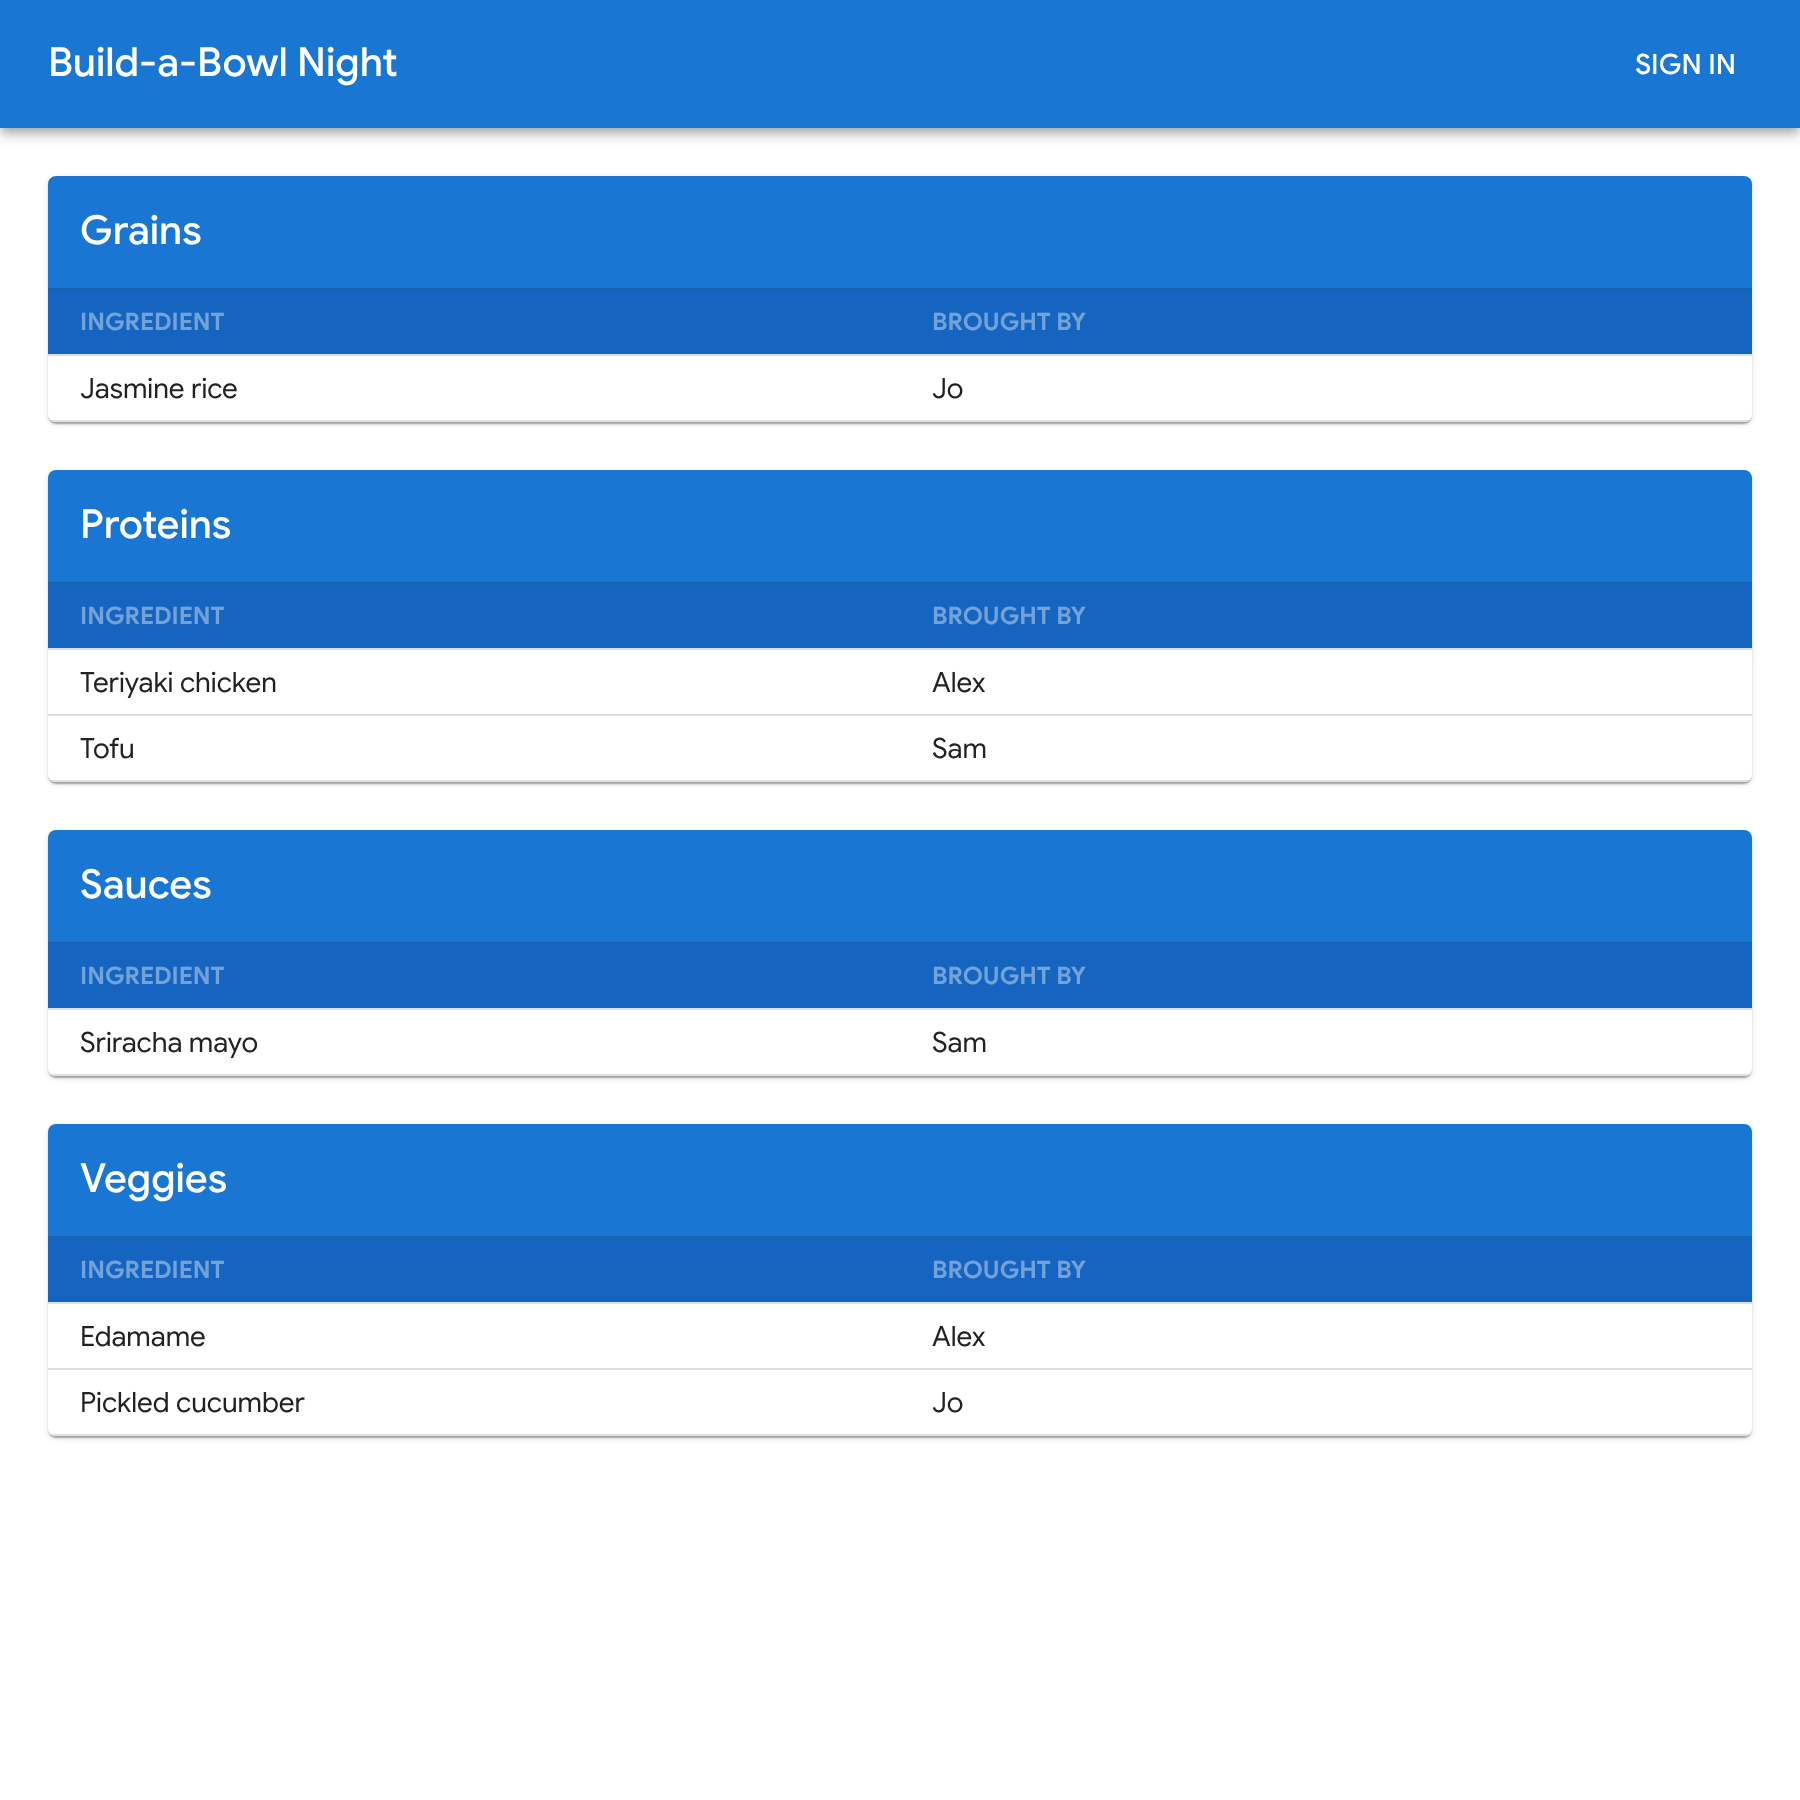
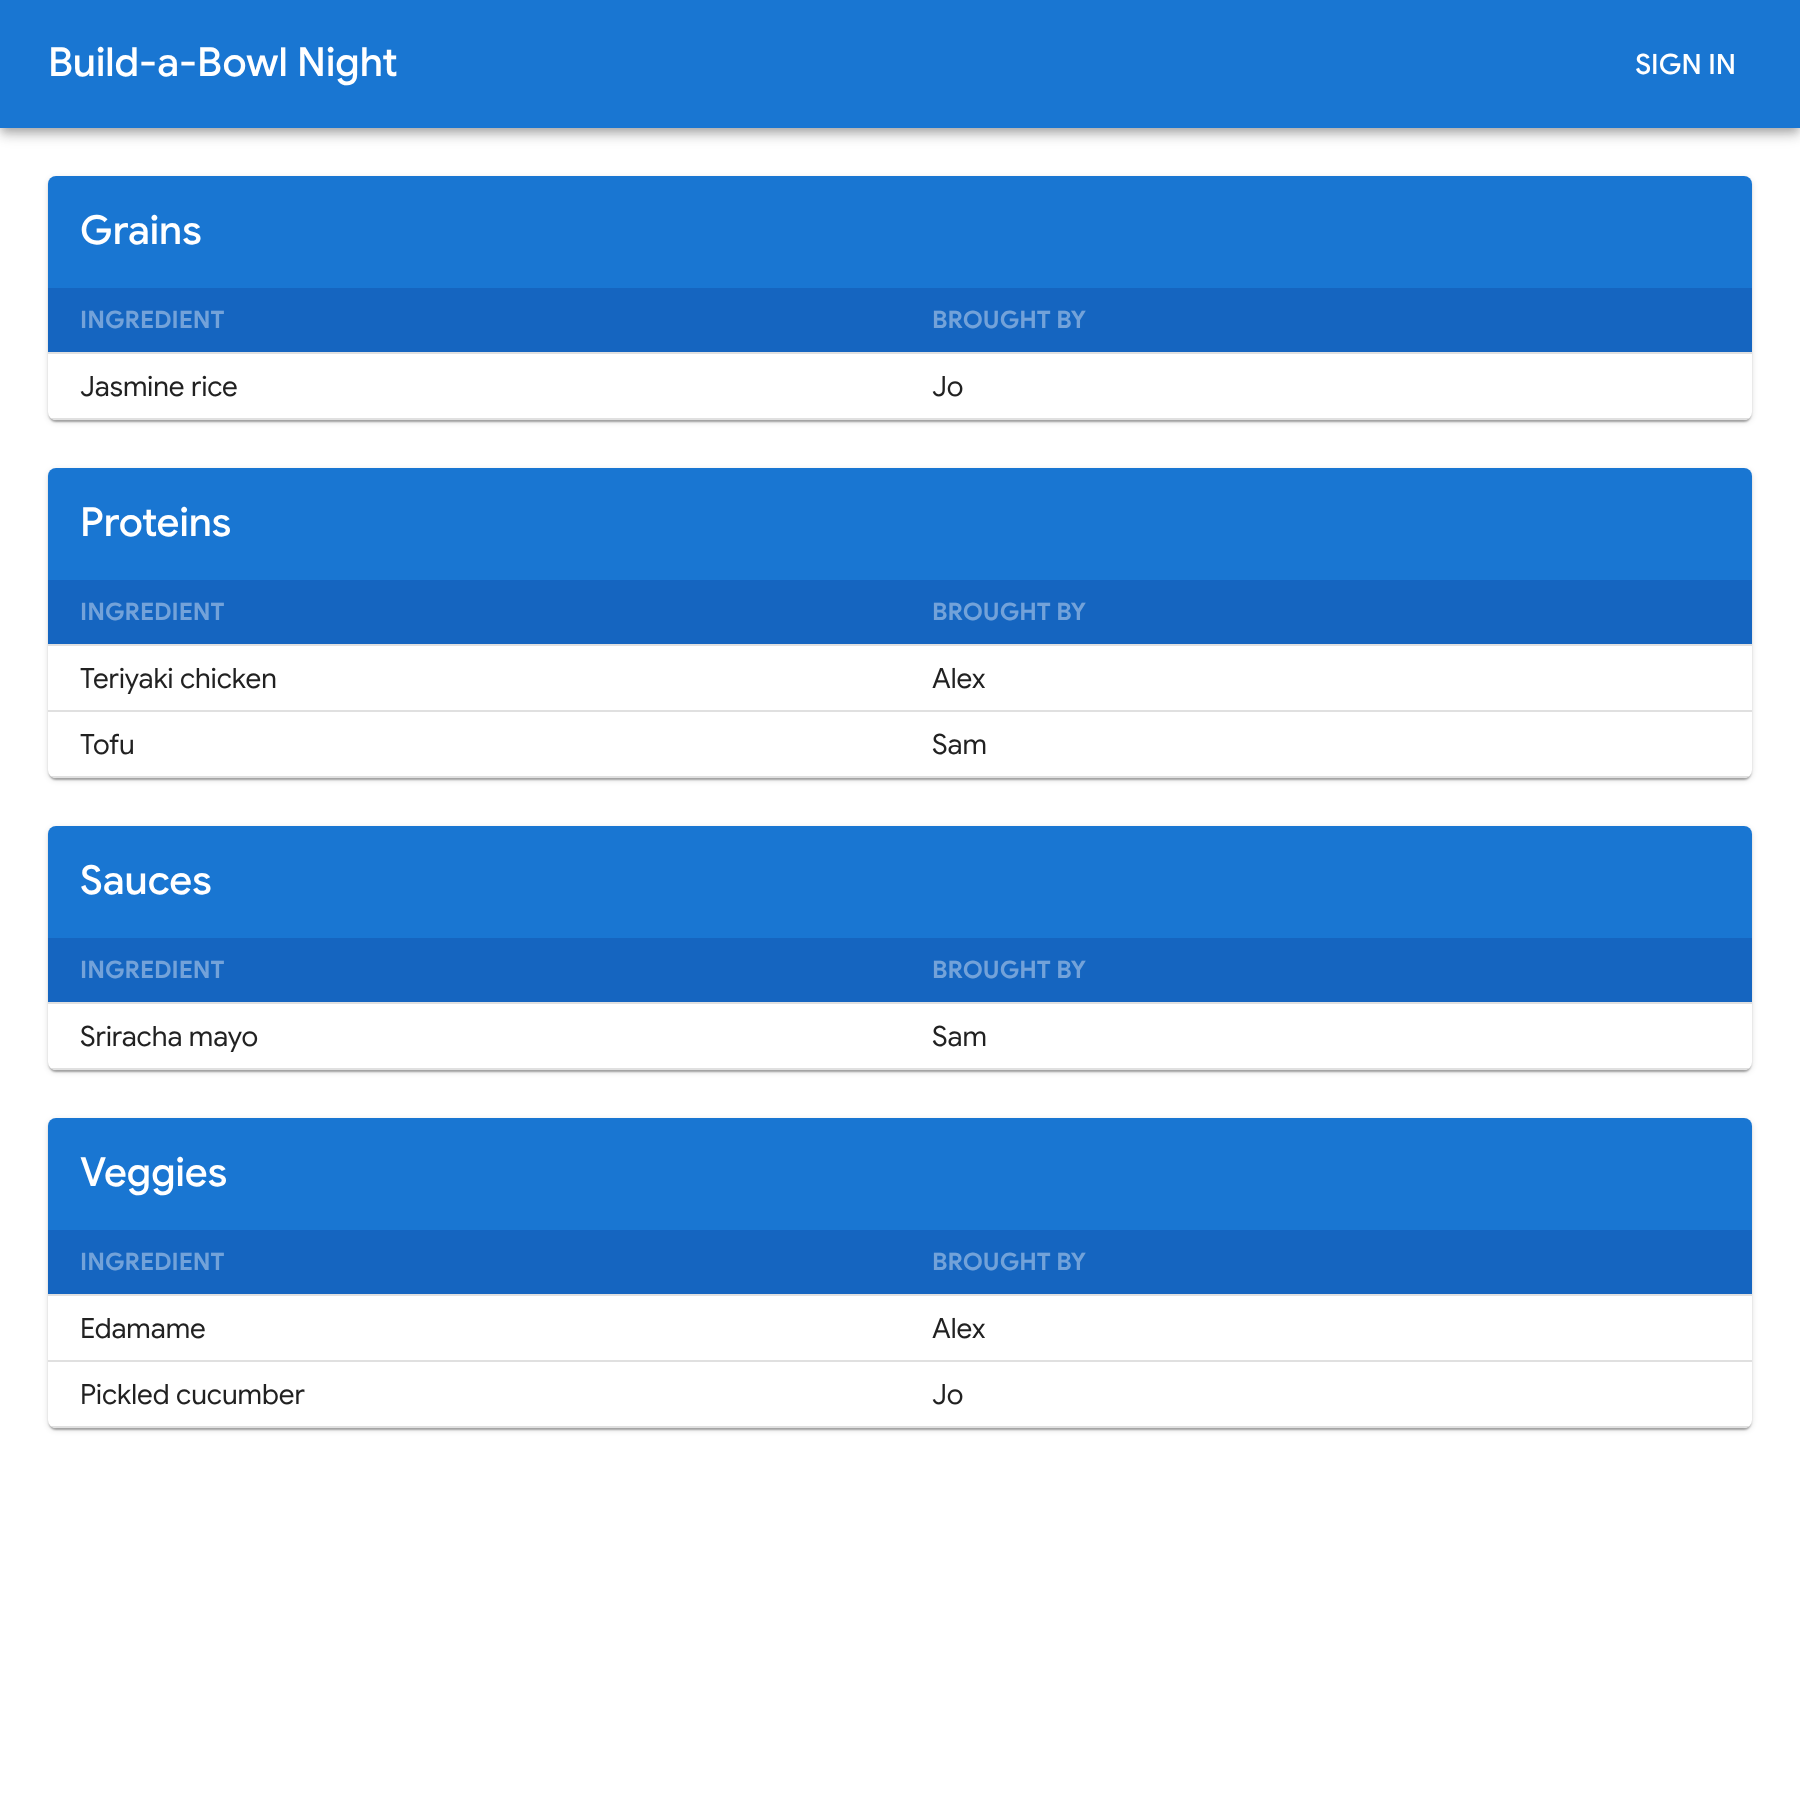
Move category title out of the table into a heading above it
Claude-Session: https://claude.ai/code/session_01YaXshzgAPddr5nf8bECYCv

diff --git a/site/src/components/IngredientTable.tsx b/site/src/components/IngredientTable.tsx
@@ -7,7 +7,6 @@ import TableCell from "@mui/material/TableCell";
 import TableContainer from "@mui/material/TableContainer";
 import TableHead from "@mui/material/TableHead";
 import TableRow from "@mui/material/TableRow";
-import { darken } from "@mui/material/styles";
 import Typography from "@mui/material/Typography";
 import { groupByCategory, type Ingredient } from "../lib/ingredients";
 
@@ -25,7 +24,7 @@ const headerCellSx = {
   opacity: 0.4,
 } as const;
 
-// Vertical stack of tables, one per category, each titled with its category name.
+// Vertical stack of cards, one per category, each with a title heading above its table.
 export default function IngredientTable({ ingredients }: IngredientTableProps) {
   // Group the ingredients so each category gets its own table.
   const groups = groupByCategory(ingredients);
@@ -35,24 +34,16 @@ export default function IngredientTable({ ingredients }: IngredientTableProps) {
     <Stack spacing={3}>
       {groups.map(([category, items]) => (
         <TableContainer key={category} component={Paper}>
+          {/* Category title, a heading above the table in the accent color. */}
+          <Typography
+            variant="h6"
+            component="h2"
+            sx={{ px: 2, py: 1.5, bgcolor: "primary.main", color: "primary.contrastText" }}
+          >
+            {category}s
+          </Typography>
           <Table size="small" sx={{ tableLayout: "fixed" }}>
             <TableHead>
-              {/* Title row in the accent color, spanning both columns. */}
-              <TableRow sx={{ bgcolor: "primary.main" }}>
-                <TableCell
-                  colSpan={2}
-                  sx={(theme) => ({
-                    py: 1.5,
-                    color: "primary.contrastText",
-                    // Subtle divider: a slightly darker shade of the title's own color.
-                    borderBottomColor: darken(theme.palette.primary.main, 0.15),
-                  })}
-                >
-                  <Typography variant="h6" component="h2">
-                    {category}s
-                  </Typography>
-                </TableCell>
-              </TableRow>
               {/* Column headers: a darker shade of the accent color, small, bold, all caps. */}
               <TableRow sx={{ bgcolor: "primary.dark" }}>
                 <TableCell sx={headerCellSx}>
